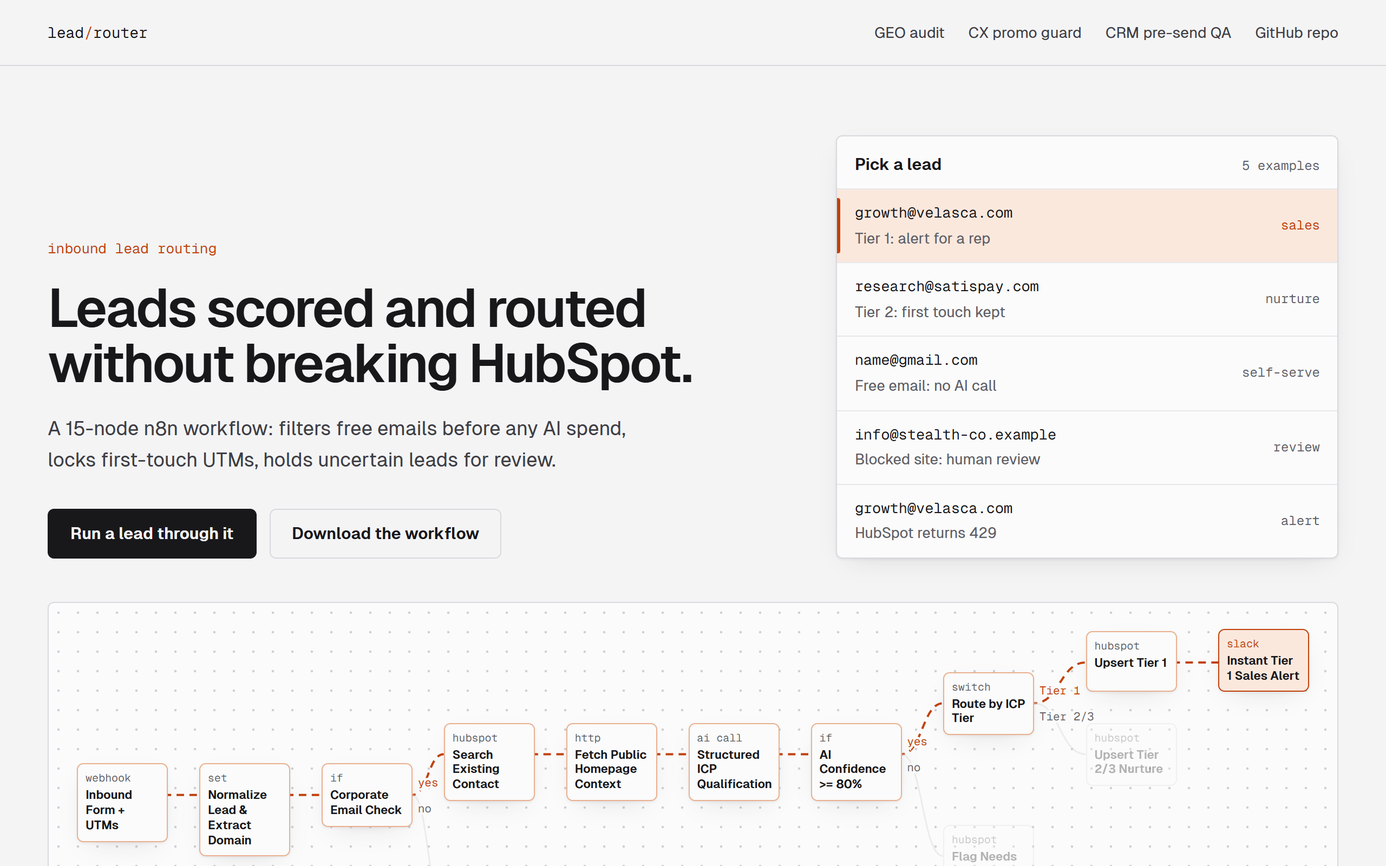
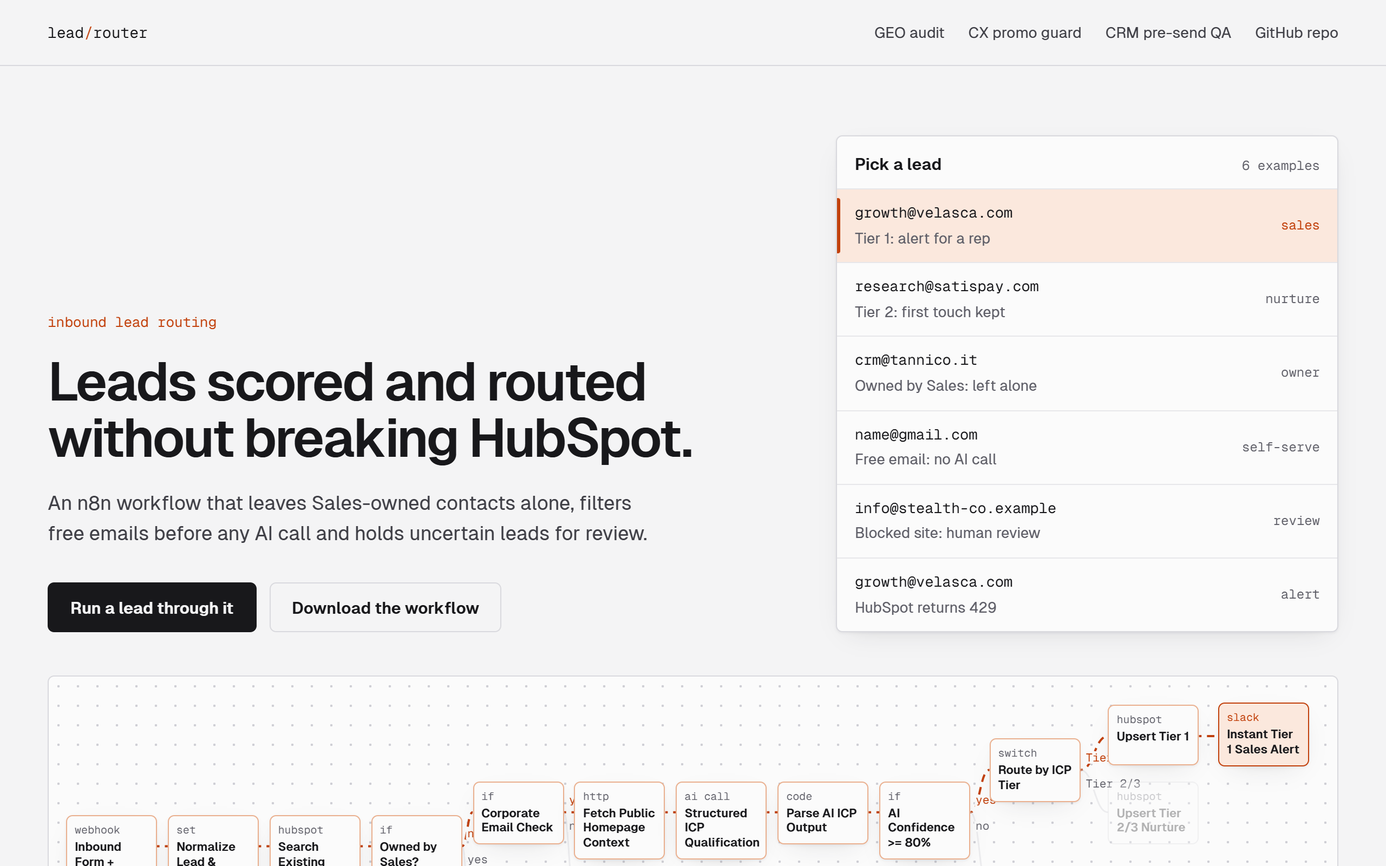
Make every README claim match the workflow
Lead router: an owner gate stops re-scoring and re-routing contacts Sales
already owns; the 30 test cases are labelled as expected routes with
invented messages. CX guard: one end date per kind of problem replaces the
release workflow, HubSpot dropped, pause length set by fixed rules.

diff --git a/docs/index.html b/docs/index.html
@@ -5,7 +5,7 @@
 <meta name="viewport" content="width=device-width,initial-scale=1">
 <meta name="color-scheme" content="light dark">
 <title>AI Inbound Lead Router: interactive walkthrough</title>
-<meta name="description" content="Run five example leads through a 15-node n8n workflow drawn from its own file: free-email filter, HubSpot field ownership, AI confidence gate and failure alerts.">
+<meta name="description" content="Run six example leads through an n8n workflow drawn from its own file: owner check, free-email filter, HubSpot field ownership, AI confidence gate and failure alerts.">
 <link rel="preload" href="fonts/geist-sans-600.woff2" as="font" type="font/woff2" crossorigin>
 <style>
 @font-face { font-family: "Geist"; src: url("fonts/geist-sans-400.woff2") format("woff2"); font-weight: 400; font-display: swap; }
@@ -229,14 +229,14 @@ footer a:hover { color: var(--accent); }
     <div>
       <p class="eyebrow">inbound lead routing</p>
       <h1>Leads scored and routed without breaking HubSpot.</h1>
-      <p class="lede">A 15-node n8n workflow: filters free emails before any AI spend, locks first-touch UTMs, holds uncertain leads for review.</p>
+      <p class="lede">An n8n workflow that leaves Sales-owned contacts alone, filters free emails before any AI call and holds uncertain leads for review.</p>
       <div class="ctas">
         <a class="btn" href="#walkthrough">Run a lead through it</a>
         <a class="btn ghost" id="dl" href="https://raw.githubusercontent.com/errer441122/ai-inbound-lead-router/main/workflows/ai-inbound-lead-router.n8n.json" download="ai-inbound-lead-router.n8n.json">Download the workflow</a>
       </div>
     </div>
     <div class="picker" id="walkthrough">
-      <div class="picker-h"><span id="pick-label">Pick a lead</span><small>5 examples</small></div>
+      <div class="picker-h"><span id="pick-label">Pick a lead</span><small>6 examples</small></div>
       <div id="leads" role="radiogroup" aria-labelledby="pick-label"></div>
     </div>
   </section>
@@ -269,7 +269,8 @@ footer a:hover { color: var(--accent); }
     <p class="sub2">Read from the workflow file. A returning lead never loses its first campaign, and the fields Sales owns are never written.</p>
     <div class="fields">
       <ul class="rules">
-        <li><b>First touch is written once</b><p>The Tier 1 node keeps the value HubSpot already has and only fills it when it is blank.</p></li>
+        <li><b>Owned contacts stay with Sales</b><p>If HubSpot already has an owner, only last touch changes and the owner is told in Slack. No new score, no new route.</p></li>
+        <li><b>First touch is written once</b><p>Every node keeps the value HubSpot already has and only fills it when it is blank.</p></li>
         <li><b>Last touch refreshes every time</b><p>Every route updates the latest campaign, so reps see what brought the lead back.</p></li>
         <li><b>Sales fields stay with Sales</b><p>No node writes the lifecycle stage or the contact owner.</p></li>
       </ul>
@@ -280,7 +281,7 @@ footer a:hover { color: var(--accent); }
   <section class="wrap band" id="cases">
     <p class="eyebrow">data/real-companies-benchmark.csv</p>
     <h2>30 test cases, each with the route it should take</h2>
-    <p class="sub2">25 real European companies and 5 edge cases. It is the test matrix for the scoring rubric, not production traffic. Pick a company to see its test input.</p>
+    <p class="sub2">25 real company domains and 5 edge cases. The messages are invented test inputs, and the set has not been run end to end yet: it lists the route each case should take.</p>
     <div class="cases" id="case-groups"><div class="group">Loading the test cases...</div></div>
     <p class="note">Estimated model cost: about &euro;0.001-0.002 per corporate lead at gpt-4o-mini or gemini-2.5-flash list prices. Free emails cost nothing: they never reach the model.</p>
   </section>
@@ -305,11 +306,11 @@ footer a:hover { color: var(--accent); }
         <li><b>Test</b><p>Point a form webhook at <code>/inbound-lead-router</code> with hidden UTM fields, send one test lead, check the contact and the alert.</p></li>
       </ol>
       <ul class="files">
-        <li><a href="https://github.com/errer441122/ai-inbound-lead-router/blob/main/workflows/ai-inbound-lead-router.n8n.json"><span class="p">workflows/ai-inbound-lead-router.n8n.json</span><span class="go">open</span><span class="d">The 14-node workflow (+ standalone error-notifier.n8n.json), ready to import</span></a></li>
+        <li><a href="https://github.com/errer441122/ai-inbound-lead-router/blob/main/workflows/ai-inbound-lead-router.n8n.json"><span class="p">workflows/ai-inbound-lead-router.n8n.json</span><span class="go">open</span><span class="d">The workflow and the standalone error-notifier.n8n.json, ready to import</span></a></li>
         <li><a href="https://github.com/errer441122/ai-inbound-lead-router/blob/main/prompts/icp-scoring-prompt.md"><span class="p">prompts/icp-scoring-prompt.md</span><span class="go">open</span><span class="d">ICP rubric, system prompt and JSON contract</span></a></li>
         <li><a href="https://github.com/errer441122/ai-inbound-lead-router/blob/main/docs/field-ownership-matrix.md"><span class="p">docs/field-ownership-matrix.md</span><span class="go">open</span><span class="d">Overwrite rules for every HubSpot property</span></a></li>
         <li><a href="https://github.com/errer441122/ai-inbound-lead-router/blob/main/docs/sop-inbound-lead-routing.md"><span class="p">docs/sop-inbound-lead-routing.md</span><span class="go">open</span><span class="d">Setup, daily review and incident playbook</span></a></li>
-        <li><a href="https://github.com/errer441122/ai-inbound-lead-router/blob/main/data/real-companies-benchmark.csv"><span class="p">data/real-companies-benchmark.csv</span><span class="go">open</span><span class="d">The 30 test cases and their expected routes</span></a></li>
+        <li><a href="https://github.com/errer441122/ai-inbound-lead-router/blob/main/data/real-companies-benchmark.csv"><span class="p">data/real-companies-benchmark.csv</span><span class="go">open</span><span class="d">30 test cases: real domains, invented messages, expected routes</span></a></li>
       </ul>
     </div>
   </section>
@@ -335,34 +336,43 @@ const LEADS = [
     email: "growth@velasca.com", route: "sales", what: "Tier 1: alert for a rep",
     form: { utm_source: "linkedin", utm_medium: "paid_social", utm_campaign: "eu_crm_audit_q2", message: "Looking to restructure Klaviyo win-back and VIP discount exclusion flows." },
     domain: "velasca.com",
-    path: ["Webhook", "Normalize", "Corporate Email", "Search Existing", "Homepage", "ICP Qualification", "Parse AI ICP Output", "Confidence", "Switch", "Upsert Tier 1", "Tier 1 Sales Alert"],
-    trace: ["Form arrives with email, message and UTMs.", "Domain velasca.com, UTMs lowercased.", "Not a free-mail domain: continue.", "No contact yet (alwaysOutputData=true keeps new leads flowing).", "velasca.com answers; its text goes to the model.", "gpt-4o-mini, temperature 0.1, JSON only: Tier 1, confidence 92.", "Parsed once with safe defaults (confidence_score=92).", "92 is at least 80: route automatically.", "Tier 1 branch.", "All 3 first-touch & last-touch UTMs + ICP fields written.", "Alert posted for a rep to follow up."],
+    path: ["Webhook", "Normalize", "Search Existing", "Owned by Sales", "Corporate Email", "Homepage", "ICP Qualification", "Parse AI ICP Output", "Confidence", "Switch", "Upsert Tier 1", "Tier 1 Sales Alert"],
+    trace: ["Form arrives with email, message and UTMs.", "Domain velasca.com, UTMs lowercased.", "No contact yet (alwaysOutputData=true keeps new leads flowing).", "No owner: the workflow may score and route.", "Not a free-mail domain: continue.", "velasca.com answers; its text goes to the model.", "gpt-4o-mini, temperature 0.1, JSON only: Tier 1, confidence 92.", "Parsed once with safe defaults (confidence_score=92).", "92 is at least 80: route automatically.", "Tier 1 branch.", "First touch written once, last touch and ICP fields written.", "Alert posted for a rep to follow up."],
     values: { icp_tier: "Tier 1", routing_status: "sales_fast_track", ai_confidence_score: "92", ai_icp_reasoning: "Italian D2C footwear brand with a repeat-purchase and VIP-margin need in Klaviyo.", ai_personalized_hook: "Keeping full-price repeat buyers out of win-back offers is usually the quickest margin fix in Klaviyo.", first_touch_utm_source: ["linkedin", "new contact: written once"], first_touch_utm_medium: ["paid_social", "new contact: written once"], first_touch_utm_campaign: ["eu_crm_audit_q2", "new contact: written once"], last_touch_utm_source: "linkedin", last_touch_utm_medium: "paid_social", last_touch_utm_campaign: "eu_crm_audit_q2" },
   },
   {
     email: "research@satispay.com", route: "nurture", what: "Tier 2: first touch kept",
     form: { utm_source: "organic", utm_medium: "seo", utm_campaign: "blog_geo_guide", message: "Downloading your benchmark on AI search visibility in fintech." },
     domain: "satispay.com",
-    path: ["Webhook", "Normalize", "Corporate Email", "Search Existing", "Homepage", "ICP Qualification", "Parse AI ICP Output", "Confidence", "Switch", "Upsert Tier 2/3"],
-    trace: ["Form arrives with email, message and UTMs.", "Domain satispay.com.", "Corporate domain: continue.", "Existing contact found: first_touch_utm_* preserved.", "satispay.com answers.", "Tier 2, confidence 88: a research download, no buying intent yet.", "Parsed once with safe defaults (confidence_score=88).", "88 is at least 80: route automatically.", "Tier 2 branch.", "Existing first_touch_utm_* kept; last_touch_utm_* refreshed."],
+    path: ["Webhook", "Normalize", "Search Existing", "Owned by Sales", "Corporate Email", "Homepage", "ICP Qualification", "Parse AI ICP Output", "Confidence", "Switch", "Upsert Tier 2/3"],
+    trace: ["Form arrives with email, message and UTMs.", "Domain satispay.com.", "Existing contact found: its first_touch_utm_* will be kept.", "No owner yet: score and route again.", "Corporate domain: continue.", "satispay.com answers.", "Tier 2, confidence 88: a research download, no buying intent yet.", "Parsed once with safe defaults (confidence_score=88).", "88 is at least 80: route automatically.", "Tier 2 branch.", "Existing first_touch_utm_* kept; last_touch_utm_* refreshed."],
     values: { icp_tier: "Tier 2", routing_status: "marketing_nurture", ai_confidence_score: "88", ai_icp_reasoning: "Real fintech company; a top-of-funnel research download without buying intent.", first_touch_utm_source: ["meta", "kept from existing"], first_touch_utm_medium: ["paid_social", "kept from existing"], first_touch_utm_campaign: ["meta_webinar_q1", "kept from existing"], last_touch_utm_source: "organic", last_touch_utm_medium: "seo", last_touch_utm_campaign: "blog_geo_guide" },
     quiet: "Nothing posted. Nurture leads go to marketing without pinging Sales.",
+  },
+  {
+    email: "crm@tannico.it", route: "owner", what: "Owned by Sales: left alone",
+    form: { utm_source: "klaviyo", utm_medium: "email", utm_campaign: "nl_black_friday_2026", message: "Can we add the VIP exclusion to our Black Friday sends too?" },
+    domain: "tannico.it", owner: "81234567",
+    path: ["Webhook", "Normalize", "Search Existing", "Owned by Sales", "Refresh Last Touch", "Tell the Owner"],
+    trace: ["Form arrives with email, message and UTMs.", "Domain tannico.it.", "Contact found, with an owner set in HubSpot.", "Owner set: Sales already works this contact.", "Only the three last-touch UTMs are written.", "The owner is told in Slack. No AI call, no new route."],
+    values: { last_touch_utm_source: "klaviyo", last_touch_utm_medium: "email", last_touch_utm_campaign: "nl_black_friday_2026" },
+    kept: [["icp_tier", "Tier 1"], ["routing_status", "sales_fast_track"], ["first_touch_utm_campaign", "eu_crm_audit_q2"], ["hubspot_owner_id", "81234567"]],
   },
   {
     email: "name@gmail.com", route: "self-serve", what: "Free email: no AI call",
     form: { utm_source: "meta", utm_medium: "paid_social", utm_campaign: "lead_form_broad", message: "Hi, can you send me pricing for a small project?" },
     domain: "gmail.com",
-    path: ["Webhook", "Normalize", "Corporate Email", "Free Email"],
-    trace: ["Form arrives with email, message and UTMs.", "Domain gmail.com.", "gmail.com is on the free-mail list: stop here.", "Five properties written (all 3 last_touch_utm_*). No website fetch, no AI call."],
-    values: { last_touch_utm_source: "meta", last_touch_utm_medium: "paid_social", last_touch_utm_campaign: "lead_form_broad" },
+    path: ["Webhook", "Normalize", "Search Existing", "Owned by Sales", "Corporate Email", "Free Email"],
+    trace: ["Form arrives with email, message and UTMs.", "Domain gmail.com.", "No contact yet.", "No owner: continue.", "gmail.com is on the free-mail list: stop here.", "Saved for self-serve nurture: first touch written once, last touch refreshed. No website fetch, no AI call."],
+    values: { first_touch_utm_source: ["meta", "new contact: written once"], first_touch_utm_medium: ["paid_social", "new contact: written once"], first_touch_utm_campaign: ["lead_form_broad", "new contact: written once"], last_touch_utm_source: "meta", last_touch_utm_medium: "paid_social", last_touch_utm_campaign: "lead_form_broad" },
     quiet: "Nothing posted. Personal emails never reach Sales or the model.",
   },
   {
     email: "info@stealth-co.example", route: "review", what: "Blocked site: human review",
     form: { utm_source: "google", utm_medium: "cpc", utm_campaign: "cpc_martech", message: "Info please" },
     domain: "stealth-co.example",
-    path: ["Webhook", "Normalize", "Corporate Email", "Search Existing", "Homepage", "ICP Qualification", "Parse AI ICP Output", "Confidence", "Manual Review"],
-    trace: ["Form arrives with email, message and UTMs.", "Domain stealth-co.example.", "Corporate domain: continue.", "New contact (alwaysOutputData=true).", "HTTP 403. The node continues on error, so the lead is not lost.", "No page text and a two-word message: confidence 62.", "Parsed once with safe defaults (confidence_score=62).", "62 is under 80: no automatic routing.", "Held in needs_human_review with all UTM attribution preserved."],
+    path: ["Webhook", "Normalize", "Search Existing", "Owned by Sales", "Corporate Email", "Homepage", "ICP Qualification", "Parse AI ICP Output", "Confidence", "Manual Review"],
+    trace: ["Form arrives with email, message and UTMs.", "Domain stealth-co.example.", "New contact (alwaysOutputData=true).", "No owner: continue.", "Corporate domain: continue.", "HTTP 403. The node continues on error, so the lead is not lost.", "No page text and a two-word message: confidence 62.", "Parsed once with safe defaults (confidence_score=62).", "62 is under 80: no automatic routing.", "Held in needs_human_review with all UTM attribution preserved."],
     values: { ai_confidence_score: "62", ai_icp_reasoning: "Website unreachable (HTTP 403) and 2-word message lacks context.", first_touch_utm_source: ["google", "new contact: written once"], first_touch_utm_medium: ["cpc", "new contact: written once"], first_touch_utm_campaign: ["cpc_martech", "new contact: written once"], last_touch_utm_source: "google", last_touch_utm_medium: "cpc", last_touch_utm_campaign: "cpc_martech" },
     quiet: "Nothing posted. The lead waits in the HubSpot list needs_human_review, which Ops clears every morning.",
   },
@@ -370,9 +380,9 @@ const LEADS = [
     email: "growth@velasca.com", route: "alert", what: "HubSpot returns 429",
     form: { utm_source: "linkedin", utm_medium: "paid_social", utm_campaign: "eu_crm_audit_q2", message: "Looking to restructure Klaviyo win-back and VIP discount exclusion flows." },
     domain: "velasca.com",
-    path: ["Webhook", "Normalize", "Corporate Email", "Search Existing", "Homepage", "ICP Qualification", "Parse AI ICP Output", "Confidence", "Switch", "Upsert Tier 1", "Error Trigger", "martech-alerts"],
+    path: ["Webhook", "Normalize", "Search Existing", "Owned by Sales", "Corporate Email", "Homepage", "ICP Qualification", "Parse AI ICP Output", "Confidence", "Switch", "Upsert Tier 1", "Error Trigger", "martech-alerts"],
     fail: "Upsert Tier 1",
-    trace: ["Same Velasca lead.", "Domain velasca.com.", "Corporate domain: continue.", "No contact yet.", "velasca.com answers.", "Tier 1, confidence 92.", "Parsed cleanly.", "Route automatically.", "Tier 1 branch.", "HubSpot answers 429. This node does not continue on error, so the run fails.", "Standalone error-notifier.n8n.json catches the failed run.", "Ops is told which workflow & node failed and why."],
+    trace: ["Same Velasca lead.", "Domain velasca.com.", "No contact yet.", "No owner: continue.", "Corporate domain: continue.", "velasca.com answers.", "Tier 1, confidence 92.", "Parsed cleanly.", "Route automatically.", "Tier 1 branch.", "HubSpot answers 429. This node does not continue on error, so the run fails.", "Standalone error-notifier.n8n.json catches the failed run.", "Ops is told which workflow & node failed and why."],
     values: {},
     none: "Nothing written: the run stopped at the upsert. Ops replays it from n8n's execution history once HubSpot recovers.",
     error: "Request failed with status code 429",
@@ -452,6 +462,8 @@ function slackText(template, l) {
     : /confidence_score/.test(x) ? String(v.ai_confidence_score ?? 92)
     : /\.reasoning/.test(x) ? v.ai_icp_reasoning
     : /personalized_hook/.test(x) ? v.ai_personalized_hook
+    : /hubspot_owner_id/.test(x) ? (l.owner || "...")
+    : /json\.message\b/.test(x) ? l.form.message
     : /\.domain\b/.test(x) ? l.domain
     : /\.email\b/.test(x) ? l.email
     : /utm_source/.test(x) ? l.form.utm_source
@@ -481,7 +493,7 @@ function renderSlack(l) {
 const NODE_W = 84;
 function shortName(name) {
   const i = name.indexOf(": ");
-  return clean((i > -1 ? name.slice(i + 2) : name).replace(/\s*\((JSON|Self-Serve|Safe Defaults|Preserve First-Touch UTMs?)\)/, ""));
+  return clean((i > -1 ? name.slice(i + 2) : name).replace(/\s*\((JSON|Self-Serve|Safe Defaults|Preserve First-Touch UTMs?|Owned Contact|Returning Lead)\)/, ""));
 }
 function typeLabel(n) {
   const t = n.type.split(".").pop();
@@ -494,7 +506,7 @@ function drawGraph() {
   const xs = nodes.map((n) => n.position[0]), ys = nodes.map((n) => n.position[1]);
   const minX = Math.min(...xs), maxX = Math.max(...xs), minY = Math.min(...ys), maxY = Math.max(...ys);
   const pad = 26;
-  const width = Math.max(canvas.parentElement.clientWidth, 1100);
+  const width = Math.max(canvas.parentElement.clientWidth, 1200);
   const s = (width - 2 * pad - NODE_W) / (maxX - minX);
   const height = Math.round((maxY - minY) * s + 2 * pad + 90);
   canvas.style.width = width + "px";
@@ -640,7 +652,7 @@ function drawCases(rows) {
     const r = rows.find((x) => x.case_id === chip.dataset.id);
     const group = chip.closest(".group");
     group.querySelectorAll(".chip").forEach((c) => c.setAttribute("aria-pressed", String(c === chip)));
-    group.querySelector(".case-detail").innerHTML = `<span class="q">${esc(r.company)} (${esc(r.domain)}): "${esc(r.sample_inbound_intent)}"</span><span class="m">${esc(r.expected_icp_tier)}, tests: ${esc(r.guardrail_tested.replace(/->/g, "to"))}</span>`;
+    group.querySelector(".case-detail").innerHTML = `<span class="q">${esc(r.company)} (${esc(r.domain)}), invented test message: "${esc(r.sample_inbound_intent)}"</span><span class="m">${esc(r.expected_icp_tier)}, tests: ${esc(r.guardrail_tested.replace(/->/g, "to"))}</span>`;
   });
 }
 

diff --git a/README.md b/README.md
@@ -1,12 +1,12 @@
 # AI Inbound Lead Enrichment, ICP Scoring & HubSpot Routing
 
-A visual **n8n + HubSpot + LLM** workflow system that turns raw inbound form submissions into clean, deduplicated, UTM-attributed, ICP-scored CRM records and instant Tier 1 Sales alerts — with explicit guardrails for free emails, field ownership, low AI confidence, and workflow failures.
+A visual **n8n + HubSpot + LLM** workflow that turns raw inbound form submissions into clean, deduplicated, UTM-attributed, ICP-scored CRM records and instant Tier 1 Sales alerts, with explicit guardrails for contacts Sales already owns, free emails, low AI confidence, and workflow failures.
 
 **[Explore the interactive workflow walkthrough](https://errer441122.github.io/ai-inbound-lead-router/)** · **[Download n8n blueprint (`workflows/ai-inbound-lead-router.n8n.json`)](workflows/ai-inbound-lead-router.n8n.json)** · **[Error Notifier (`workflows/error-notifier.n8n.json`)](workflows/error-notifier.n8n.json)**
 
-[![The walkthrough page: five example leads and the n8n workflow drawn from its own file](assets/page.png)](https://errer441122.github.io/ai-inbound-lead-router/)
+[![The walkthrough page: six example leads and the n8n workflow drawn from its own file](assets/page.png)](https://errer441122.github.io/ai-inbound-lead-router/)
 
-> **Live Testing & Scope:** Importable 14-node n8n blueprint + standalone 2-node Error Workflow validated against a 30-case European company rubric (`data/real-companies-benchmark.csv`). Configured for HubSpot Free CRM (Private App), OpenAI (`gpt-4o-mini`) or Google Gemini (`gemini-2.5-flash`), and Slack (`#inbound-tier1-leads`, `#martech-alerts`). All webhook test inputs are simulated form payloads (no private customer data).
+> **What is real and what is a test:** the workflow is an importable n8n blueprint for HubSpot Free CRM (Private App), OpenAI (`gpt-4o-mini`) or Google Gemini (`gemini-2.5-flash`), and Slack (`#inbound-tier1-leads`, `#martech-alerts`). The 30 test cases in `data/real-companies-benchmark.csv` pair real public company domains with **invented** inbound messages and list the route each case should take; they have not been run end to end yet. The leads on the walkthrough page are examples. No private customer data is used.
 
 ---
 
@@ -14,30 +14,32 @@ A visual **n8n + HubSpot + LLM** workflow system that turns raw inbound form sub
 
 In most B2B and e-commerce growth teams, inbound forms dump unverified leads straight into the CRM:
 - **Slow speed-to-lead:** high-fit prospects sit in the same generic inbox as personal `gmail.com` inquiries and students.
-- **Dirty CRM & broken attribution:** repeat form fills overwrite original `First Touch UTM` values or clobber Sales-owned deal/lifecycle fields.
+- **Dirty CRM & broken attribution:** repeat form fills overwrite original `First Touch UTM` values, or re-route a lead a rep is already working.
 - **Unsafe AI automation:** naive LLM workflows hallucinate company facts or auto-send unreviewed emails when a company website is unreachable.
 
 ---
 
-## System Architecture (14-Node Main Workflow + Standalone Error Workflow)
+## System Architecture (Main Workflow + Standalone Error Workflow)
 
 ```mermaid
 flowchart LR
     W["1. Inbound Form Webhook + UTMs"] --> N["2. Normalize Email & Domain"]
-    N --> G1{"3. Corporate Email?"}
-    G1 -- "No (gmail / libero / etc.)" --> FS["4. HubSpot Self-Serve Nurture (Zero AI cost)"]
-    G1 -- "Yes" --> HS["5. HubSpot Search (alwaysOutputData=true)"]
-    HS --> H["6. Fetch Public Website Context (continueOnFail)"]
-    H --> AI["7. AI Structured ICP Scoring (JSON, temp 0.1)"]
-    AI --> P["8. Parse AI Output (Safe Defaults)"]
-    P --> G2{"9. Confidence >= 80%?"}
-    G2 -- "No / Blocked Site" --> MR["10. HubSpot Flag: needs_human_review"]
-    G2 -- "Yes" --> SW{"11. Route by ICP Tier"}
-    SW -- "Tier 1" --> T1["12. HubSpot Upsert (Preserve all 3 First-Touch UTMs)"] --> SL["13. Slack Instant Sales Alert"]
-    SW -- "Tier 2 / 3" --> T2["14. HubSpot Segmented Nurture"]
+    N --> HS["3. HubSpot Search (alwaysOutputData=true)"]
+    HS --> O{"4. Owned by Sales?"}
+    O -- "Yes" --> LT["5. HubSpot: Refresh Last Touch Only"] --> SO["6. Slack: Tell the Owner"]
+    O -- "No" --> G1{"7. Corporate Email?"}
+    G1 -- "No (gmail / libero / etc.)" --> FS["8. HubSpot Self-Serve Nurture (Zero AI cost)"]
+    G1 -- "Yes" --> H["9. Fetch Public Website Context (continueOnFail)"]
+    H --> AI["10. AI Structured ICP Scoring (JSON, temp 0.1)"]
+    AI --> P["11. Parse AI Output (Safe Defaults)"]
+    P --> G2{"12. Confidence >= 80%?"}
+    G2 -- "No / Blocked Site" --> MR["13. HubSpot Flag: needs_human_review"]
+    G2 -- "Yes" --> SW{"14. Route by ICP Tier"}
+    SW -- "Tier 1" --> T1["15. HubSpot Upsert (Preserve all 3 First-Touch UTMs)"] --> SL["16. Slack Instant Sales Alert"]
+    SW -- "Tier 2 / 3" --> T2["17. HubSpot Segmented Nurture"]
 ```
 
-*Global safety net:* link [`workflows/error-notifier.n8n.json`](workflows/error-notifier.n8n.json) under **Settings → Error Workflow** in n8n so any unhandled API timeout or 429 error posts immediately to `#martech-alerts`.
+*Global safety net:* link [`workflows/error-notifier.n8n.json`](workflows/error-notifier.n8n.json) under **Settings → Error Workflow** in n8n so a failed HubSpot or Slack call (for example a 429) posts immediately to `#martech-alerts`.
 
 ---
 
@@ -45,21 +47,23 @@ flowchart LR
 
 | Risk | How This Workflow Handles It | Documentation |
 | --- | --- | --- |
-| **Wasted enrichment/AI credits on personal emails** | Pre-AI `IF` gate blocks `gmail.com`, `yahoo.com`, `libero.it`, `outlook.com`, `icloud.com`, routing them straight to self-serve nurture | [`workflows/ai-inbound-lead-router.n8n.json`](workflows/ai-inbound-lead-router.n8n.json) |
-| **Overwriting Sales data or First-Touch UTMs** | Contact lookup runs before every write; `first_touch_utm_*` is **fill-if-blank only**, `last_touch_utm_*` always refreshes, Sales-owned fields are never overwritten | [`docs/field-ownership-matrix.md`](docs/field-ownership-matrix.md) |
-| **AI hallucinations or blocked websites** | Strict JSON output contract (`temperature = 0.1`), `continueOnFail = true` on website fetch, and a hard **`confidence_score >= 80` gate** routing uncertain cases to `needs_human_review` | [`prompts/icp-scoring-prompt.md`](prompts/icp-scoring-prompt.md) |
+| **Re-routing a lead Sales is already working** | `Guard: Owned by Sales?` reads `hubspot_owner_id` before any write. If the contact has an owner, the workflow only refreshes the last-touch UTMs and tells the owner in Slack: no AI call, `icp_tier` and `routing_status` untouched | [`docs/field-ownership-matrix.md`](docs/field-ownership-matrix.md) |
+| **Overwriting First-Touch UTMs** | `first_touch_utm_*` is **fill-if-blank only** on every write node, `last_touch_utm_*` always refreshes, `lifecyclestage` and the owner are never written | [`docs/field-ownership-matrix.md`](docs/field-ownership-matrix.md) |
+| **Wasted AI credits on personal emails** | Pre-AI `IF` gate sends `gmail.com`, `yahoo.com`, `libero.it`, `outlook.com`, `icloud.com` and similar straight to self-serve nurture | [`workflows/ai-inbound-lead-router.n8n.json`](workflows/ai-inbound-lead-router.n8n.json) |
+| **AI hallucinations or blocked websites** | Strict JSON output contract (`temperature = 0.1`), `continueOnFail = true` on the website fetch and the AI call, and a hard **`confidence_score >= 80` gate** routing uncertain cases to `needs_human_review` | [`prompts/icp-scoring-prompt.md`](prompts/icp-scoring-prompt.md) |
 | **Unreviewed AI emails sent to prospects** | **Human-in-the-loop by design:** the AI opener is posted only inside Slack for a rep to verify before sending | [`docs/sop-inbound-lead-routing.md`](docs/sop-inbound-lead-routing.md) |
 
 ---
 
-## 30-Case Routing Benchmark (25 Real European Companies + 5 Guardrail Edge Cases)
+## 30 Test Cases (25 Real Company Domains + 5 Edge Cases)
 
-Full rubric test matrix: [`data/real-companies-benchmark.csv`](data/real-companies-benchmark.csv)
+Test matrix: [`data/real-companies-benchmark.csv`](data/real-companies-benchmark.csv)
 
-- **25 real European D2C & B2B SaaS public domains** (*Velasca, Cortilia, Tannico, Gymshark, Huel, Factorial, Qonto, Brevo, Typeform, Holded, Pipedrive, Fatture in Cloud, Pennylane, Scalapay, Casavo, Satispay, Bending Spoons, Subito, Vinted, Too Good To Go, Klarna, N26, Revolut, Wise, Zalando*) mapped to clear Tier 1 vs. Tier 2 routing rules based on real business model + inbound intent.
-- **3 personal free-email hygiene cases** (`gmail.com`, `libero.it`, `outlook.com`) verifying zero AI spend on personal domains.
-- **2 failure / low-confidence cases** verifying the `needs_human_review` fallback when a site blocks fetching or the message is ambiguous.
-- **Estimated API unit cost:** ~€0.001–€0.002 per qualified corporate lead (~€1–€2 per 1,000 leads on `gpt-4o-mini` / `gemini-2.5-flash`).
+- **25 real European D2C & B2B SaaS public domains** (*Velasca, Cortilia, Tannico, Gymshark, Huel, Factorial, Qonto, Brevo, Typeform, Holded, Pipedrive, Fatture in Cloud, Pennylane, Scalapay, Casavo, Satispay, Bending Spoons, Subito, Vinted, Too Good To Go, Klarna, N26, Revolut, Wise, Zalando*). The workflow would fetch their real homepages; the inbound messages are **invented** test inputs, not enquiries from these companies.
+- **3 personal free-email cases** (`gmail.com`, `libero.it`, `outlook.com`) that should never reach the AI.
+- **2 failure / low-confidence cases** that should land in `needs_human_review`.
+- **Status:** each row lists `expected_route` and `expected_icp_tier`. The set has **not been run end to end yet**. To run it, POST each row to the webhook and compare HubSpot's `routing_status` and `icp_tier` with the expected columns.
+- **Estimated API unit cost:** ~€0.001–€0.002 per corporate lead (~€1–€2 per 1,000 leads on `gpt-4o-mini` / `gemini-2.5-flash` list prices).
 
 ---
 
@@ -74,12 +78,12 @@ Full rubric test matrix: [`data/real-companies-benchmark.csv`](data/real-compani
 
 | Path | Content |
 | --- | --- |
-| `workflows/ai-inbound-lead-router.n8n.json` | 1-click importable 14-node n8n workflow blueprint (`alwaysOutputData`, single safe AI parser, full 3-field First-Touch UTM lock) |
+| `workflows/ai-inbound-lead-router.n8n.json` | Importable n8n workflow (owner gate, free-email filter, AI confidence gate, first-touch UTM lock) |
 | `workflows/error-notifier.n8n.json` | Standalone 2-node Error Workflow routing execution failures to `#martech-alerts` |
 | `prompts/icp-scoring-prompt.md` | ICP rubric, system prompt, JSON output contract & hallucination guardrails |
 | `docs/field-ownership-matrix.md` | CRM overwrite & First-Touch / Last-Touch UTM governance rules |
 | `docs/sop-inbound-lead-routing.md` | 10-minute setup & daily/monthly Operations SOP |
-| `data/real-companies-benchmark.csv` | 30-case benchmark across 25 real European companies + 5 edge-case guardrails |
+| `data/real-companies-benchmark.csv` | 30 test cases: real company domains, invented messages, expected routes |
 | `docs/index.html` | Interactive visual workflow explorer (GitHub Pages) |
 
 ## License

diff --git a/docs/field-ownership-matrix.md b/docs/field-ownership-matrix.md
@@ -2,24 +2,27 @@
 
 One of the fastest ways an automation breaks a CRM is **blindly overwriting human Sales notes, deal stages, or original attribution data** when an existing contact fills out a second form.
 
-Every HubSpot write node in [`workflows/ai-inbound-lead-router.n8n.json`](../workflows/ai-inbound-lead-router.n8n.json) enforces this Field Ownership Matrix:
+The HubSpot write nodes in [`workflows/ai-inbound-lead-router.n8n.json`](../workflows/ai-inbound-lead-router.n8n.json) follow this matrix. One gate decides most of it: **`Guard: Owned by Sales?`** checks whether the contact already has an owner (`hubspot_owner_id`). If it has one, Sales owns the contact and the workflow only refreshes the last-touch UTMs.
 
 | HubSpot Property | System of Record (Owner) | Overwrite Policy | Business Rationale |
 | --- | --- | --- | --- |
 | `email` | Contact / Form | **Primary key (Upsert match)** | Prevents duplicate contact records across repeat form submits |
-| `first_touch_utm_source` / `first_touch_utm_campaign` | Marketing Ops (Automation) | **Fill if blank ONLY** | Preserves true original acquisition channel forever — a returning lead clicking a newsletter link must never erase the paid campaign that first acquired them |
-| `last_touch_utm_source` / `last_touch_utm_campaign` | Marketing Ops (Automation) | **Always overwrite** | Captures the most recent campaign that drove high-intent conversion |
-| `icp_tier` | AI Qualification Node | **Fill if blank, or update if `needs_human_review`** | Prevents an automation from downgrading a contact already manually qualified by Sales |
-| `ai_icp_reasoning` & `ai_personalized_hook` | AI Qualification Node | **Always refresh on new inbound message** | Keeps the latest inbound context visible to Sales without touching core CRM status |
-| `ai_confidence_score` | AI Qualification Node | **Always refresh** | Gives Ops visibility into prompt reliability and auditability |
-| `routing_status` | Marketing Ops (Automation) | **Set only if Sales has not claimed lead** | Stops automation from re-routing an active opportunity |
-| `lifecyclestage` (SQL / Opportunity / Customer) | **Sales Team** | **NEVER overwrite backwards** | If an existing Customer or SQL fills out a form, automation must never reset them to `Lead` or `MQL` |
-| `hubspot_owner_id` (Account Executive) | **Sales / RevOps** | **NEVER overwrite if populated** | Existing accounts always stay with their assigned rep |
+| `first_touch_utm_source` / `_medium` / `_campaign` | Marketing Ops (Automation) | **Fill if blank ONLY** (every write node keeps the value HubSpot already has) | Preserves the original acquisition channel: a returning lead clicking a newsletter link must never erase the paid campaign that first acquired them |
+| `last_touch_utm_source` / `_medium` / `_campaign` | Marketing Ops (Automation) | **Always overwrite**, owned contacts included | Captures the most recent campaign that brought the lead back |
+| `icp_tier` | AI Qualification Node | **Written only while the contact has no owner** | Once Sales owns a contact, automation never re-scores or downgrades it |
+| `routing_status` | Marketing Ops (Automation) | **Written only while the contact has no owner** | Stops automation from re-routing a lead Sales is already working |
+| `ai_icp_reasoning` & `ai_personalized_hook` | AI Qualification Node | **Refreshed each time the workflow scores the lead** (contacts without an owner) | Keeps the latest inbound context visible to Sales |
+| `ai_confidence_score` | AI Qualification Node | **Refreshed each time the workflow scores the lead** | Gives Ops visibility into prompt reliability |
+| `lifecyclestage` (SQL / Opportunity / Customer) | **Sales Team** | **Never written by this workflow** | An existing Customer or SQL who fills out a form is never reset to `Lead` or `MQL` |
+| `hubspot_owner_id` (Account Executive) | **Sales / RevOps** | **Never written by this workflow**; only read by the owner gate | Existing accounts always stay with their assigned rep |
 
 ---
 
 ## Duplicate & Re-Submission Rule
 
-Before writing to HubSpot, Node 5 (`HubSpot: Search Existing Contact`) inspects the existing record:
-- **New contact:** writes both `first_touch_utm_*` and `last_touch_utm_*`, scores ICP, and routes.
-- **Returning contact:** preserves `first_touch_utm_*`, updates `last_touch_utm_*` and `ai_personalized_hook`, and notifies the existing owner rather than creating a duplicate contact or re-assigning ownership.
+Before any write, `HubSpot: Search Existing Contact` reads the record, then `Guard: Owned by Sales?` checks the owner:
+- **New contact:** writes first and last touch, scores the ICP and routes.
+- **Returning contact, no owner yet:** keeps `first_touch_utm_*`, refreshes `last_touch_utm_*`, scores and routes again.
+- **Returning contact with an owner:** only `last_touch_utm_*` changes. No AI call; `icp_tier` and `routing_status` stay as Sales left them. `Slack: Tell the Owner (Returning Lead)` posts the new message and the owner ID in `#inbound-tier1-leads`.
+
+If your team marks ownership another way (for example a lifecycle stage without an owner), change the condition in `Guard: Owned by Sales?`.

diff --git a/docs/sop-inbound-lead-routing.md b/docs/sop-inbound-lead-routing.md
@@ -33,6 +33,7 @@
 
 ## 3. Failure & Incident Playbook
 
-- **Website returns 403 / times out:** `HTTP: Fetch Public Homepage Context` has `continueOnFail = true`. The prompt instructs the model to set `confidence_score <= 70`, which automatically routes the contact to `needs_human_review` — **zero lost leads**.
-- **AI provider rate limit (429) or outage:** The global `Error Trigger` posts the failed node and error message directly to `#martech-alerts` so Ops can replay the execution from n8n's Execution History once the provider recovers.
-- **Returning existing customer submits form:** Node 5 checks HubSpot first; `first_touch_utm_*` and Sales-owned fields are preserved per the [Field Ownership Matrix](field-ownership-matrix.md).
+- **Website returns 403 / times out:** `HTTP: Fetch Public Homepage Context` has `continueOnFail = true`. The prompt instructs the model to set `confidence_score` below 75, which routes the contact to `needs_human_review`: the lead is not lost.
+- **AI provider rate limit (429) or outage:** the AI node also has `continueOnFail = true`, so the run does not stop: the parser reads the score as 0 and the lead goes to `needs_human_review`. Check the review list for a sudden spike.
+- **HubSpot or Slack returns an error:** these nodes do not continue on error, so the run fails and the standalone Error Notifier posts the failed node and the error to `#martech-alerts`. Ops replays the execution from n8n's execution history once the service recovers.
+- **Returning contact submits the form:** `HubSpot: Search Existing Contact` runs first. If the contact has an owner, only the last-touch UTMs change and the owner is told in Slack; otherwise first touch is kept and the lead is scored again. See the [Field Ownership Matrix](field-ownership-matrix.md).

diff --git a/prompts/icp-scoring-prompt.md b/prompts/icp-scoring-prompt.md
@@ -1,6 +1,6 @@
 # Structured AI ICP Qualification Prompt & Hallucination Guardrails
 
-This prompt powers Node 7 (`AI: Structured ICP Qualification`) inside [`workflows/ai-inbound-lead-router.n8n.json`](../workflows/ai-inbound-lead-router.n8n.json).
+This prompt powers the node `AI: Structured ICP Qualification (JSON)` inside [`workflows/ai-inbound-lead-router.n8n.json`](../workflows/ai-inbound-lead-router.n8n.json). The workflow embeds a condensed version with the same rules and JSON keys.
 
 ---
 
@@ -25,7 +25,7 @@ homepage excerpt, and inbound form message.
 
 Rules (non-negotiable):
 1. Never invent employee counts, revenue figures, or tech stacks not present in the input.
-2. If the homepage excerpt is empty, blocked, or ambiguous, set confidence_score <= 70
+2. If the homepage excerpt is empty, blocked, or ambiguous, set confidence_score below 75
    and add "insufficient_website_context" to risk_flags.
 3. The personalized_hook must reference ONE verifiable product or positioning fact
    visible in the homepage excerpt or inbound message — never generic flattery.
